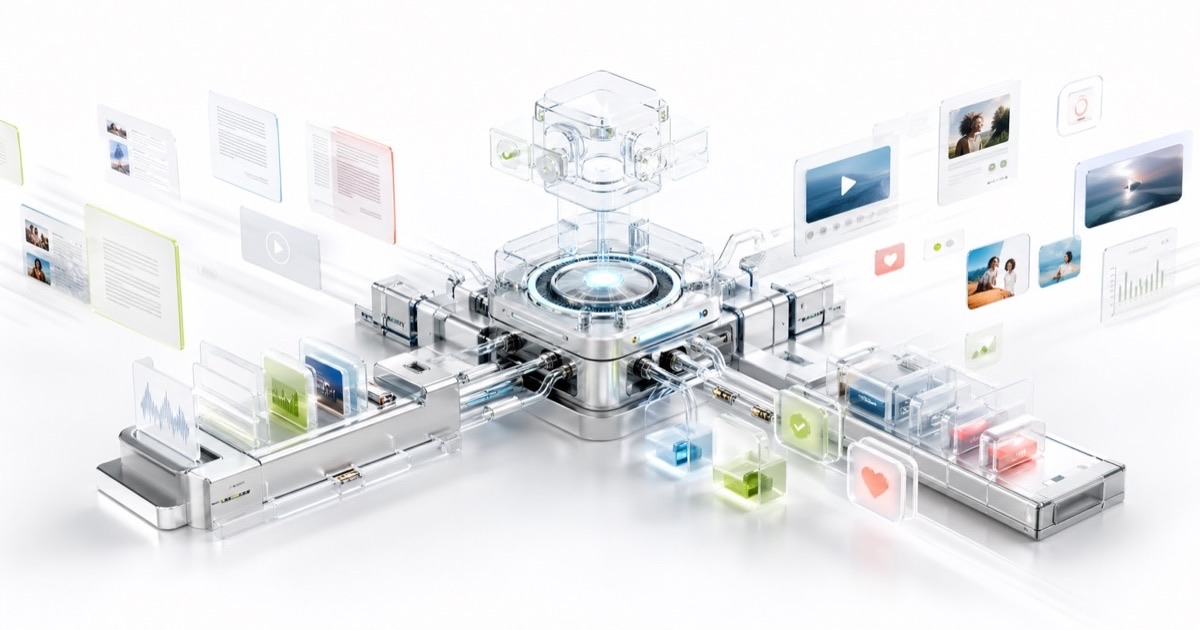
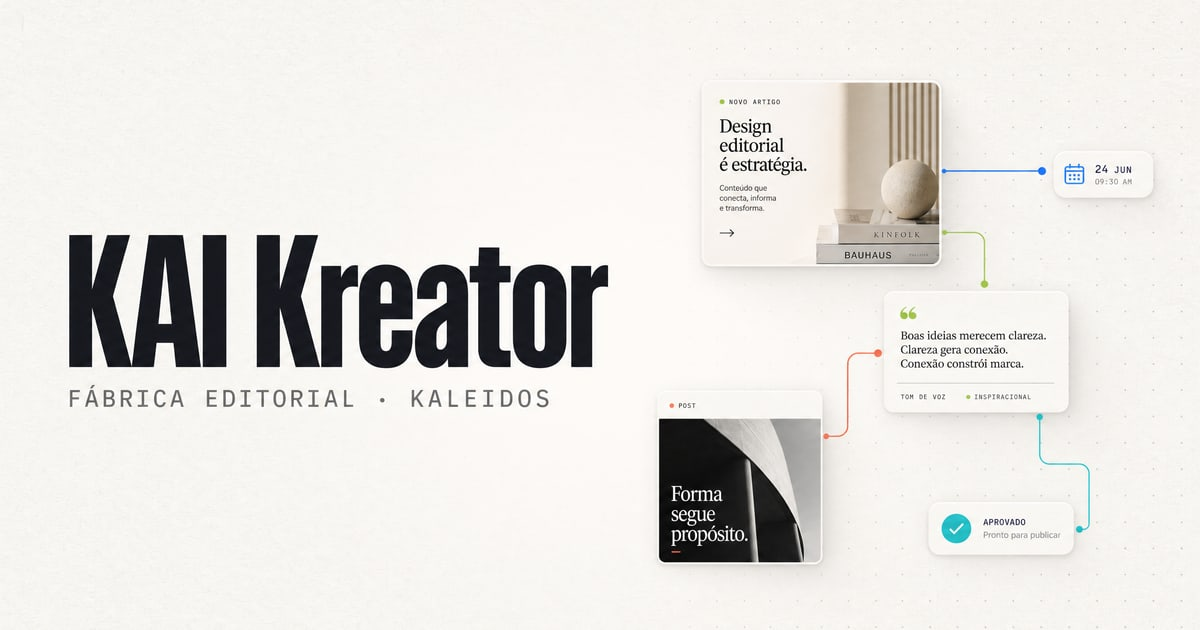
feat(landing): assets visuais Higgsfield - hero loop + OG + 6 features
- Hero: novo content-factory.webp gerado via GPT Image 2 (composicao
  editorial isometrica premium com cards orbitando o nucleo KAI)
- Hero: loop video 5s Seedance 2.0 sobreposto, com fallback para o
  still e prefers-reduced-motion respeitado
- OG card 1200x630 regenerado: wordmark KAI Kreator + vinheta editorial
- 6 ilustracoes Higgsfield para os modulos da fabrica (radar, briefing,
  linha criativa, aprovacao, publicacao, aprendizado), uma por feature
  card, todas com a paleta do produto e um accent dominante por peca
- Otimizacao: WebP 1600w para still, MP4/WebM <1MB para o loop,
  todas as ilustracoes <40KB

diff --git a/app/components/features.tsx b/app/components/features.tsx
@@ -1,39 +1,53 @@
+import Image from "next/image";
+
 const FEATURES = [
   {
     step: "01",
     title: "Radar de ideias",
     body: "Captura sinais, referencias e temas recorrentes para alimentar a pauta antes da reuniao comecar.",
     accent: "bg-blue",
+    image: "/assets/generated/feat1-radar.webp",
+    imageAlt: "Ilustracao isometrica de um radar editorial captando sinais soltos",
   },
   {
     step: "02",
     title: "Briefing vivo",
     body: "Tom de voz, objetivo, contexto, assets e historico de decisao no mesmo lugar que a equipe produz.",
     accent: "bg-green",
+    image: "/assets/generated/feat2-briefing.webp",
+    imageAlt: "Documento central com contexto, voz e historico orbitando ao redor",
   },
   {
     step: "03",
     title: "Linha criativa",
     body: "Copy, roteiro, design e formatos derivados conectados como pecas de uma mesma ideia.",
     accent: "bg-coral",
+    image: "/assets/generated/feat3-linha.webp",
+    imageAlt: "Fita criativa conectando copy, imagem e video derivados da mesma ideia",
   },
   {
     step: "04",
     title: "Aprovacao limpa",
     body: "Cliente comenta, aprova e pede ajuste sem transformar feedback em print perdido.",
     accent: "bg-cyan",
+    image: "/assets/generated/feat4-aprovacao.webp",
+    imageAlt: "Selo de aprovacao flutuando sobre uma linha de comentario calma",
   },
   {
     step: "05",
     title: "Publicacao assistida",
     body: "Calendario, cadencia, responsaveis e status de cada canal com visao de gargalos.",
     accent: "bg-violet",
+    image: "/assets/generated/feat5-publicacao.webp",
+    imageAlt: "Calendario editorial com cadencia, canais e status visiveis",
   },
   {
     step: "06",
     title: "Aprendizado continuo",
     body: "Performance volta para a biblioteca de insights e melhora o proximo ciclo de producao.",
     accent: "bg-ink",
+    image: "/assets/generated/feat6-aprendizado.webp",
+    imageAlt: "Loop continuo de metricas voltando para a biblioteca de insights",
   },
 ];
 
@@ -56,22 +70,33 @@ export function Features() {
           {FEATURES.map((feature) => (
             <article
               key={feature.step}
-              className="group relative overflow-hidden rounded-[8px] border border-line bg-white p-6 shadow-[0_20px_70px_rgba(38,56,86,0.07)] transition-transform duration-300 hover:-translate-y-1"
+              className="group relative flex flex-col overflow-hidden rounded-[8px] border border-line bg-white shadow-[0_20px_70px_rgba(38,56,86,0.07)] transition-transform duration-300 hover:-translate-y-1"
             >
               <div
-                className={`absolute left-0 top-0 h-1 w-full ${feature.accent}`}
+                className={`absolute left-0 top-0 z-10 h-1 w-full ${feature.accent}`}
                 aria-hidden
               />
-              <div className="flex items-center justify-between gap-4">
-                <span className="font-mono text-xs font-bold text-muted">
-                  {feature.step}
-                </span>
-                <span className="h-2 w-2 rounded-full bg-current text-line-strong transition-colors group-hover:text-blue" />
+              <div className="relative aspect-square w-full overflow-hidden bg-[linear-gradient(180deg,#fff_0%,#f9fbff_100%)]">
+                <Image
+                  src={feature.image}
+                  alt={feature.imageAlt}
+                  fill
+                  sizes="(max-width: 768px) 100vw, (max-width: 1280px) 50vw, 33vw"
+                  className="object-contain p-6 transition-transform duration-500 group-hover:scale-[1.03]"
+                />
               </div>
-              <h3 className="mt-8 text-2xl font-semibold leading-tight text-ink">
-                {feature.title}
-              </h3>
-              <p className="mt-4 text-base leading-7 text-muted">{feature.body}</p>
+              <div className="flex flex-1 flex-col p-6 pt-5">
+                <div className="flex items-center justify-between gap-4">
+                  <span className="font-mono text-xs font-bold text-muted">
+                    {feature.step}
+                  </span>
+                  <span className="h-2 w-2 rounded-full bg-current text-line-strong transition-colors group-hover:text-blue" />
+                </div>
+                <h3 className="mt-4 text-2xl font-semibold leading-tight text-ink">
+                  {feature.title}
+                </h3>
+                <p className="mt-3 text-base leading-7 text-muted">{feature.body}</p>
+              </div>
             </article>
           ))}
         </div>

diff --git a/app/components/hero.tsx b/app/components/hero.tsx
@@ -9,14 +9,27 @@ export function Hero() {
   return (
     <section className="hero-fade relative min-h-[70svh] overflow-hidden bg-white sm:min-h-[74svh] lg:min-h-[76svh]">
       <div className="absolute inset-x-0 bottom-[-3%] top-[36%] sm:top-[28%] lg:top-[18%]">
+        {/* Still fallback (visible without JS / when prefers-reduced-motion). */}
         <Image
           src="/assets/content-factory.webp"
           alt=""
           fill
           priority
           sizes="100vw"
-          quality={80}
+          quality={82}
           className="object-contain object-bottom opacity-95"
+        />
+        {/* Subtle motion loop on top — auto-hidden for users who request reduced motion. */}
+        <video
+          className="absolute inset-0 h-full w-full object-contain object-bottom opacity-95 motion-reduce:hidden"
+          src="/assets/generated/hero-loop.mp4"
+          poster="/assets/content-factory.webp"
+          autoPlay
+          muted
+          loop
+          playsInline
+          preload="metadata"
+          aria-hidden
         />
       </div>
 